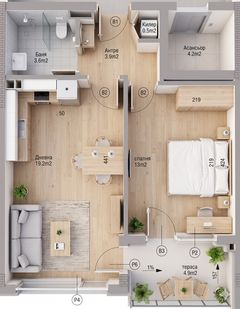
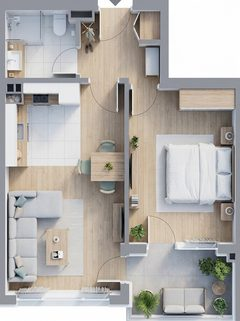
Refactor code structure for improved readability and maintainability

diff --git a/js/apartments.js b/js/apartments.js
@@ -17,7 +17,6 @@ document.addEventListener('DOMContentLoaded', async () => {
 });
 
 function initFilters() {
-  // Попълваме филтъра за етажи
   const floors = [...new Set(allData.apartments.map(a => a.floor))].sort((a,b) => a-b);
   const floorSel = document.getElementById('filter-floor');
   floors.forEach(f => {
@@ -27,7 +26,6 @@ function initFilters() {
     floorSel.appendChild(opt);
   });
 
-  // Закачаме event listeners
   ['filter-floor', 'filter-type', 'filter-status', 'filter-area-min', 'filter-area-max']
     .forEach(id => {
       const el = document.getElementById(id);
@@ -84,15 +82,14 @@ function renderTable() {
   `).join('');
 }
 
-// Бутон с миниатюра на плана (или disabled placeholder, ако още няма снимка)
 function planThumbButton(a) {
-  if (a.plan_image) {
-    const thumb = a.plan_thumb || a.plan_image;
+  const thumbSrc = a.scheme_thumb || a.scheme_image || a.plan_thumb || a.plan_image;
+  if (thumbSrc) {
     return `<button class="plan-thumb-btn" title="Виж плана на ${typeLabel(a.type).toLowerCase()} №${a.number}" onclick="openApartmentImage('${a.id}')">
-      <img src="${thumb}" alt="План на ${typeLabel(a.type)} №${a.number}" loading="lazy">
+      <img src="${thumbSrc}" alt="План на ${typeLabel(a.type)} №${a.number}" loading="lazy">
     </button>`;
   }
-  return `<span class="plan-thumb-empty" title="Снимка на този апартамент скоро">—</span>`;
+  return `<span class="plan-thumb-empty" title="Скица скоро">—</span>`;
 }
 
 function showDetails(id) {
@@ -137,17 +134,36 @@ function showDetails(id) {
       <span class="value">При запитване</span>
     </div>
 
-    ${a.plan_image ? `
+    ${(a.scheme_image || a.plan_image) ? `
       <div class="apt-plan-block">
         <div class="apt-plan-header">
-          <h4 style="margin:0">Илюстративен план на ${typeLabel(a.type).toLowerCase()}а</h4>
-          <span class="apt-plan-badge">AI визуализация</span>
+          <h4 style="margin:0">План на ${typeLabel(a.type).toLowerCase()}а</h4>
+          ${a.scheme_image && a.plan_image ? `
+            <div class="apt-plan-tabs" role="tablist">
+              <button type="button" class="apt-plan-tab active" data-tab="scheme" onclick="switchPlanTab('${a.id}','scheme')">📐 Скица</button>
+              <button type="button" class="apt-plan-tab" data-tab="render" onclick="switchPlanTab('${a.id}','render')">🛋 Визуализация</button>
+            </div>
+          ` : ''}
         </div>
-        <img src="${a.plan_image}" alt="План на ${typeLabel(a.type)} №${a.number}"
-             class="apt-plan-img"
-             onclick="openApartmentImage('${a.id}')"
-             loading="lazy">
-        <p class="apt-plan-note">Изображението е генерирано от изкуствен интелект по архитектурната скица и служи единствено за илюстрация на разпределението. Клик за уголемяване.</p>
+
+        ${a.scheme_image ? `
+          <img src="${a.scheme_image}" alt="Скица на ${typeLabel(a.type)} №${a.number}"
+               class="apt-plan-img apt-plan-pane active"
+               data-pane="scheme"
+               onclick="openApartmentImage('${a.id}','scheme')"
+               loading="lazy">
+        ` : ''}
+        ${a.plan_image ? `
+          <img src="${a.plan_image}" alt="Визуализация на ${typeLabel(a.type)} №${a.number}"
+               class="apt-plan-img apt-plan-pane ${a.scheme_image ? '' : 'active'}"
+               data-pane="render"
+               onclick="openApartmentImage('${a.id}','render')"
+               loading="lazy">
+        ` : ''}
+
+        <p class="apt-plan-note apt-plan-note-warning">
+          ⚠ Визуализациите са създадени с изкуствен интелект по архитектурната скица и са илюстративни. Реалното обзавеждане и довършителните работи не са включени в цената.
+        </p>
       </div>
     ` : ''}
 
@@ -160,18 +176,38 @@ function showDetails(id) {
   document.getElementById('modal').classList.add('open');
 }
 
-// ============================================
-// Image viewer за плановете на апартаментите
-// (zoom + pan + pinch — както на страница „Етажи")
-// ============================================
-function openApartmentImage(id) {
-  const a = allData.apartments.find(x => x.id === id);
-  if (!a || !a.plan_image) return;
-  const title = `${typeLabel(a.type)} №${a.number} — илюстративен план`;
-  openImageViewer(a.plan_image, title);
+function closeModal() {
+  document.getElementById('modal').classList.remove('open');
 }
 
-// Глобален viewer (инжектиран веднъж в DOM при първо ползване)
+document.addEventListener('keydown', e => {
+  if (e.key === 'Escape') closeModal();
+});
+
+function switchPlanTab(id, which) {
+  const modalBody = document.getElementById('modal-body');
+  if (!modalBody) return;
+  modalBody.querySelectorAll('.apt-plan-tab').forEach(btn => {
+    btn.classList.toggle('active', btn.dataset.tab === which);
+  });
+  modalBody.querySelectorAll('.apt-plan-pane').forEach(img => {
+    img.classList.toggle('active', img.dataset.pane === which);
+  });
+}
+
+function openApartmentImage(id, pane) {
+  const a = allData.apartments.find(x => x.id === id);
+  if (!a) return;
+  if (!pane) {
+    const activePane = document.querySelector('.apt-plan-pane.active');
+    pane = activePane ? activePane.dataset.pane : (a.scheme_image ? 'scheme' : 'render');
+  }
+  const src = (pane === 'render') ? a.plan_image : (a.scheme_image || a.plan_image);
+  if (!src) return;
+  const label = (pane === 'render') ? 'визуализация' : 'скица';
+  openImageViewer(src, `${typeLabel(a.type)} №${a.number} — ${label}`);
+}
+
 let imgViewerState = { zoom: 1, tx: 0, ty: 0, dragging: false, startX: 0, startY: 0,
                        touchStartDist: 0, touchStartZoom: 1, initialized: false };
 
@@ -215,9 +251,7 @@ function closeImageViewer() {
 }
 
 function aptImgResetZoom() {
-  imgViewerState.zoom = 1;
-  imgViewerState.tx = 0;
-  imgViewerState.ty = 0;
+  imgViewerState.zoom = 1; imgViewerState.tx = 0; imgViewerState.ty = 0;
   applyImgTransform();
 }
 function aptImgZoom(factor) {
@@ -235,7 +269,6 @@ function bindImageViewerEvents() {
   imgViewerState.initialized = true;
   const stage = document.getElementById('apt-img-stage');
 
-  // Mouse drag
   document.addEventListener('mousedown', e => {
     if (!e.target.closest('#apt-img-stage')) return;
     if (e.target.tagName !== 'IMG') return;
@@ -252,7 +285,6 @@ function bindImageViewerEvents() {
   });
   document.addEventListener('mouseup', () => { imgViewerState.dragging = false; });
 
-  // Wheel zoom
   document.addEventListener('wheel', e => {
     const v = document.getElementById('apt-img-viewer');
     if (!v || !v.classList.contains('open')) return;
@@ -261,7 +293,6 @@ function bindImageViewerEvents() {
     aptImgZoom(e.deltaY < 0 ? 1.15 : 0.87);
   }, { passive: false });
 
-  // Touch (pinch + drag)
   document.addEventListener('touchstart', e => {
     if (!e.target.closest('#apt-img-stage')) return;
     if (e.touches.length === 2) {
@@ -293,10 +324,8 @@ function bindImageViewerEvents() {
   }, { passive: false });
   document.addEventListener('touchend', () => { imgViewerState.dragging = false; });
 
-  // Double click reset
   stage.addEventListener('dblclick', aptImgResetZoom);
 
-  // Keyboard
   document.addEventListener('keydown', e => {
     const v = document.getElementById('apt-img-viewer');
     if (!v || !v.classList.contains('open')) return;
@@ -306,12 +335,3 @@ function bindImageViewerEvents() {
     if (e.key === '0') aptImgResetZoom();
   });
 }
-
-function closeModal() {
-  document.getElementById('modal').classList.remove('open');
-}
-
-// Затваряне на модал с ESC
-document.addEventListener('keydown', e => {
-  if (e.key === 'Escape') closeModal();
-});

diff --git a/floors.html b/floors.html
@@ -214,9 +214,9 @@ function showFloor(key) {
                   <td class="num">${formatNumber(a.area_net)}</td>
                   <td class="num">${formatNumber(a.area_total)}</td>
                   <td><span class="status status-${a.status}">${statusLabel(a.status)}</span></td>
-                  <td class="col-plan">${a.plan_image
-                    ? `<button class="plan-thumb-btn" title="Виж плана на ${typeLabel(a.type).toLowerCase()} №${a.number}" onclick="openFloorUnitImage('${a.id}')"><img src="${a.plan_thumb || a.plan_image}" alt="План на ${typeLabel(a.type)} №${a.number}" loading="lazy"></button>`
-                    : `<span class="plan-thumb-empty" title="Снимка скоро">—</span>`}</td>
+                  <td class="col-plan">${(a.scheme_image || a.plan_image)
+                    ? `<button class="plan-thumb-btn" title="Виж плана на ${typeLabel(a.type).toLowerCase()} №${a.number}" onclick="openFloorUnitImage('${a.id}')"><img src="${a.scheme_thumb || a.scheme_image || a.plan_thumb || a.plan_image}" alt="План на ${typeLabel(a.type)} №${a.number}" loading="lazy"></button>`
+                    : `<span class="plan-thumb-empty" title="Скица скоро">—</span>`}</td>
                 </tr>
               `).join('')}
             </tbody>
@@ -262,15 +262,19 @@ function openPlanViewer(src, title) {
   document.body.style.overflow = 'hidden';
 }
 
-// Отваря снимка на конкретен апартамент (от списъка под етажния план)
+// Отваря изображение на конкретен апартамент (от списъка под етажния план)
+// Приоритет на скицата (тя е технически точна), fallback към визуализацията
 function openFloorUnitImage(id) {
   if (!apartmentsData) return;
   const a = apartmentsData.apartments.find(x => x.id === id);
-  if (!a || !a.plan_image) return;
+  if (!a) return;
+  const src = a.scheme_image || a.plan_image;
+  if (!src) return;
+  const label = a.scheme_image ? 'скица' : 'визуализация';
   const img = document.getElementById('plan-img');
-  img.src = a.plan_image;
+  img.src = src;
   document.getElementById('plan-viewer-title').textContent =
-    `${typeLabel(a.type)} №${a.number} — илюстративен план`;
+    `${typeLabel(a.type)} №${a.number} — ${label}`;
   planResetZoom();
   document.getElementById('plan-viewer').classList.add('open');
   document.body.style.overflow = 'hidden';

diff --git a/css/style.css b/css/style.css
@@ -402,6 +402,42 @@ table.units tr:last-child td { border-bottom: none; }
   padding: 0.2rem 0.55rem;
   border-radius: 12px;
 }
+
+/* Табове за превключване Скица / Визуализация */
+.apt-plan-tabs {
+  display: inline-flex;
+  background: white;
+  border: 1px solid var(--color-border);
+  border-radius: var(--radius);
+  padding: 3px;
+  gap: 2px;
+}
+.apt-plan-tab {
+  background: transparent;
+  border: none;
+  padding: 0.4rem 0.9rem;
+  font-size: 0.85rem;
+  font-weight: 500;
+  color: var(--color-text-muted);
+  cursor: pointer;
+  border-radius: 4px;
+  transition: all .15s ease;
+  font-family: inherit;
+}
+.apt-plan-tab:hover {
+  color: var(--color-primary);
+  background: var(--color-bg);
+}
+.apt-plan-tab.active {
+  background: var(--color-primary);
+  color: white;
+  box-shadow: var(--shadow-sm);
+}
+
+/* Pane (скица / визуализация) — само активният се показва */
+.apt-plan-pane { display: none; }
+.apt-plan-pane.active { display: block; }
+
 .apt-plan-img {
   width: 100%;
   max-height: 480px;
@@ -418,6 +454,17 @@ table.units tr:last-child td { border-bottom: none; }
   margin: 0.6rem 0 0;
   line-height: 1.45;
   font-style: italic;
+}
+/* Warning за ИИ визуализациите */
+.apt-plan-note-warning {
+  background: #FBF1DC;
+  color: #6B5318;
+  border-left: 3px solid var(--color-warning);
+  padding: 0.65rem 0.85rem;
+  border-radius: var(--radius);
+  font-style: normal;
+  font-size: 0.82rem;
+  margin-top: 0.85rem;
 }
 
 /* =========== Image viewer (full-screen за плана на апартамент) =========== */
